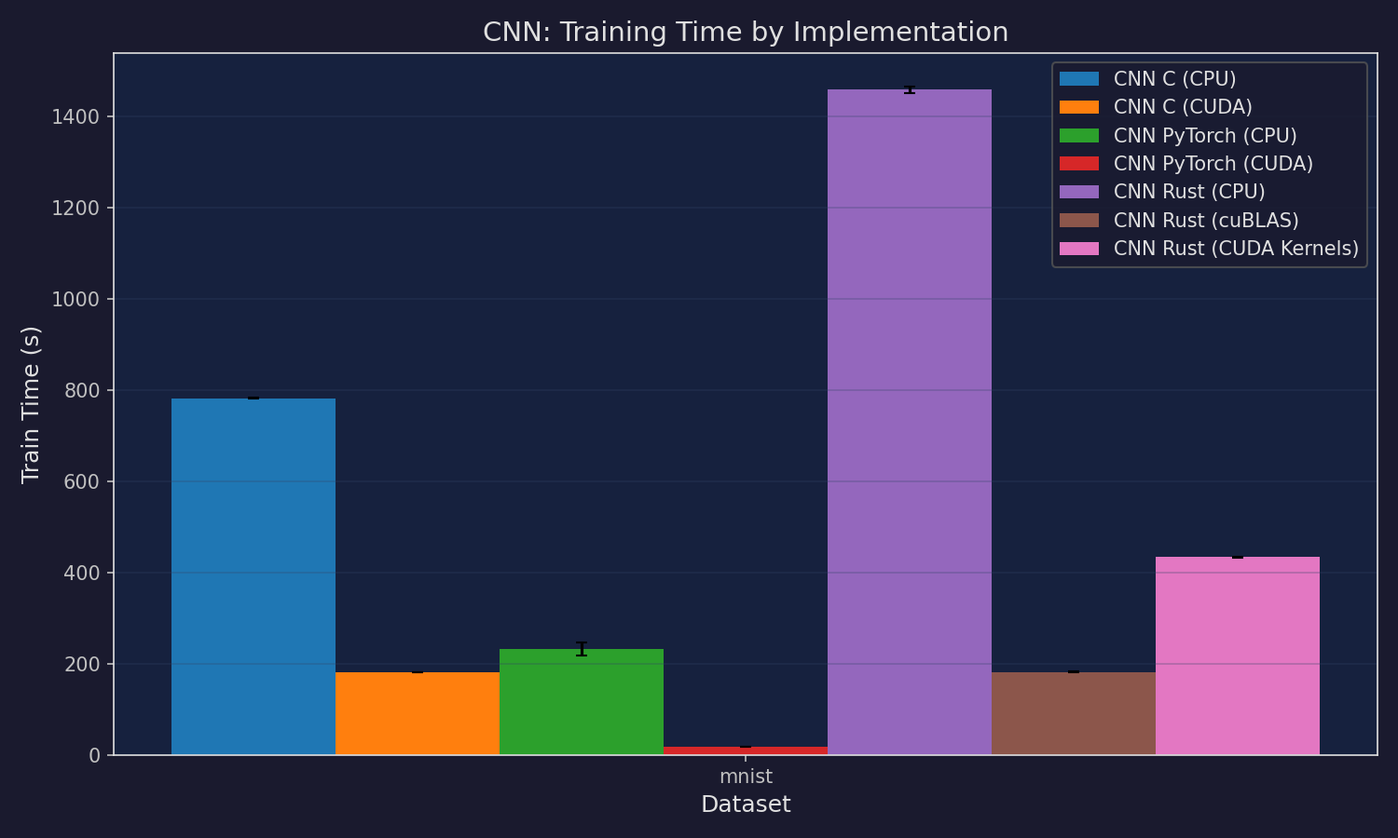
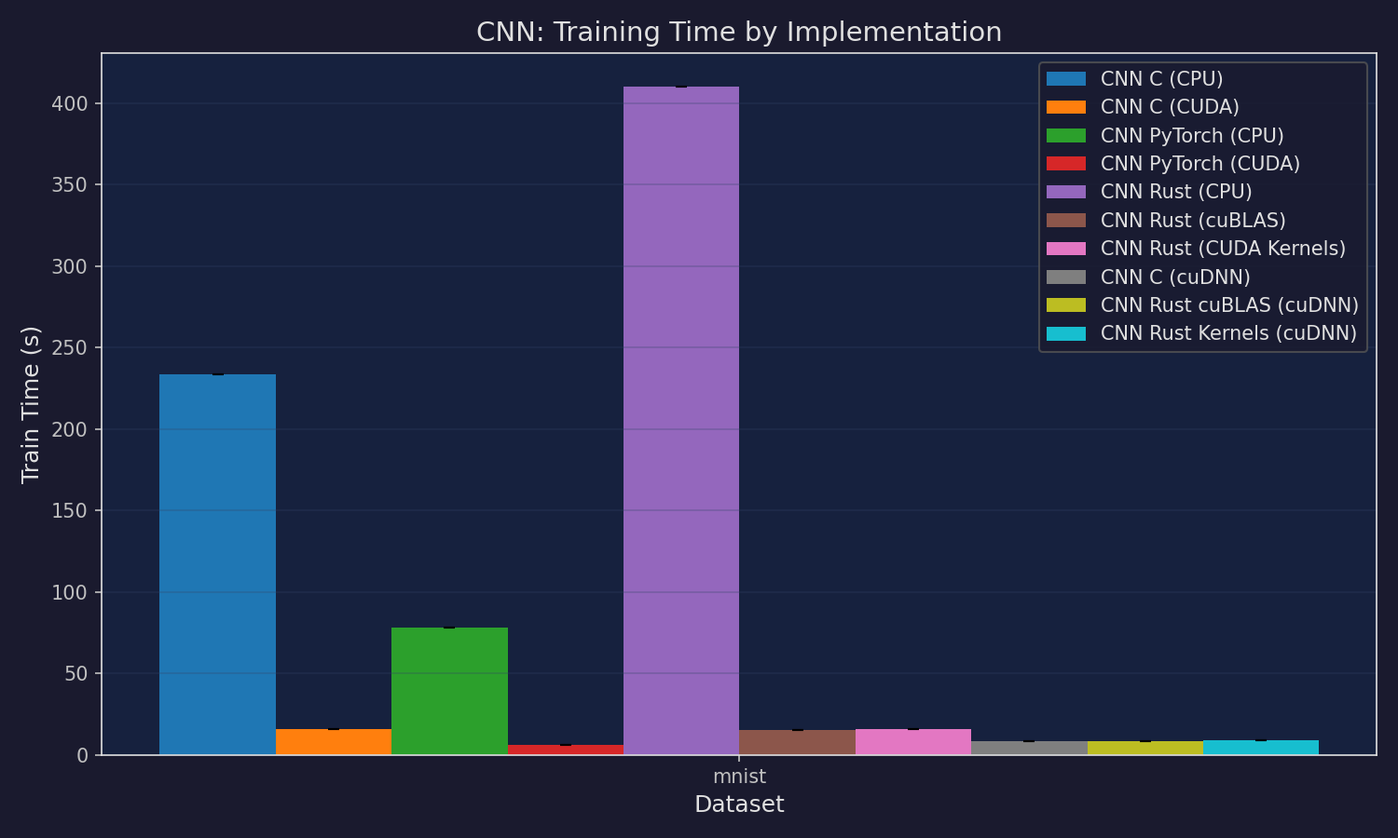
docs: update README and regenerate all plots with depth scaling results
Rewrite README with fresh benchmark numbers, add depth scaling analysis
  section, update peak throughput table, expand MLP overview to 3x2 grid.
  Regenerate all scaling and benchmark plots.

diff --git a/README.md b/README.md
@@ -1,12 +1,12 @@
 # ML Language Playground: Multi-Language Neural Network Benchmark
 
-A multi-language machine learning benchmark comparing neural network implementations across C, Rust, and Python. Two model families --- MLP (8 implementations) and CNN/LeNet-5 (7 implementations) --- span CPU and GPU backends to measure throughput scaling.
+A multi-language machine learning benchmark comparing neural network implementations across C, Rust, and Python. Two model families --- MLP (8 implementations) and CNN/LeNet-5 (10 implementations) --- span CPU and GPU backends to measure throughput scaling.
 
 ## MLP Architecture
 
 | Component | Choice | Rationale |
 |-----------|--------|-----------|
-| Hidden layers | 1 (configurable size, default 64) | Simple enough to implement from scratch, sufficient for tabular data |
+| Hidden layers | 1–5 (configurable depth and width) | `--num-hidden-layers N` controls depth; all hidden layers share `--hidden-size` width |
 | Hidden activation | ReLU | Fast, avoids vanishing gradients |
 | Output activation | Softmax | Produces class probabilities for multi-class classification |
 | Loss | Cross-entropy | Standard for classification; clean gradient with softmax |
@@ -19,10 +19,10 @@ A multi-language machine learning benchmark comparing neural network implementat
 | Implementation | File | Description |
 |---------------|------|-------------|
 | C (CPU) | `src/c/models/mlp/mlp_cpu.c` | Manual backprop in C99 with OpenMP parallelization and cache-tiled GEMM |
-| C (CUDA) | `src/c/models/mlp/mlp.cu` | GPU kernels, one CUDA thread per sample, atomicAdd for gradients |
-| Rust (CPU) | `src/rust/mlp-cpu/src/main.rs` | Rayon threadpool (physical cores) + cache-tiled GEMM (TILE=64) |
-| Rust (cuBLAS) | `src/rust/mlp-cuda-cublas/src/main.rs` | cuBLAS FFI for GEMM + custom CUDA kernels for elementwise ops |
-| Rust (CUDA Kernels) | `src/rust/mlp-cuda-kernels/src/main.rs` | All custom CUDA kernels including shared-memory tiled matmul |
+| C (CUDA) | `src/c/models/mlp/mlp.cu` | GPU kernels with cuBLAS GEMM and custom elementwise CUDA kernels |
+| Rust (CPU) | `src/rust/models/mlp-cpu/src/main.rs` | Rayon threadpool (physical cores) + cache-tiled GEMM (TILE=64) |
+| Rust (cuBLAS) | `src/rust/models/mlp-cuda-cublas/src/main.rs` | cuBLAS FFI for GEMM + custom CUDA kernels for elementwise ops |
+| Rust (CUDA Kernels) | `src/rust/models/mlp-cuda-kernels/src/main.rs` | All custom CUDA kernels including shared-memory tiled matmul |
 | NumPy (CPU) | `src/python/models/mlp/mlp_numpy.py` | Vectorized NumPy, exact replica of C algorithm |
 | PyTorch (CPU) | `src/python/models/mlp/mlp_pytorch.py` | nn.Module with manual Xavier init to match C, CPU backend |
 | PyTorch (CUDA) | `src/python/models/mlp/mlp_pytorch.py` | Same PyTorch model on GPU via `--device cuda` |
@@ -50,9 +50,12 @@ All 8 MLP implementations produce identical standardized output for benchmark pa
 |---------------|------|-------------|
 | C (CPU) | `src/c/models/cnn/cnn_cpu.c` | im2col + OpenMP-parallelized tiled GEMM, shared nn_ops library |
 | C (CUDA) | `src/c/models/cnn/cnn.cu` | GPU im2col + cuBLAS GEMM, custom elementwise CUDA kernels |
-| Rust (CPU) | `src/rust/cnn-cpu/src/main.rs` | im2col + Rayon threadpool with cache-tiled GEMM (TILE=64) |
-| Rust (cuBLAS) | `src/rust/cnn-cuda-cublas/src/main.rs` | cuBLAS GEMM + custom CUDA kernels for conv/pool/activations |
-| Rust (CUDA Kernels) | `src/rust/cnn-cuda-kernels/src/main.rs` | All custom CUDA kernels including shared-memory tiled matmul |
+| C (cuDNN) | `src/c/models/cnn/cnn.cu` | cuDNN convolution backend via `--backend cudnn` |
+| Rust (CPU) | `src/rust/models/cnn-cpu/src/main.rs` | im2col + Rayon threadpool with cache-tiled GEMM (TILE=64) |
+| Rust (cuBLAS) | `src/rust/models/cnn-cuda-cublas/src/main.rs` | cuBLAS GEMM + custom CUDA kernels for conv/pool/activations |
+| Rust (CUDA Kernels) | `src/rust/models/cnn-cuda-kernels/src/main.rs` | All custom CUDA kernels including shared-memory tiled matmul |
+| Rust cuBLAS (cuDNN) | `src/rust/models/cnn-cuda-cublas/src/main.rs` | cuDNN convolution backend via `--backend cudnn` |
+| Rust Kernels (cuDNN) | `src/rust/models/cnn-cuda-kernels/src/main.rs` | cuDNN convolution backend via `--backend cudnn` |
 | PyTorch (CPU) | `src/python/models/cnn/cnn_pytorch.py` | nn.Module with manual Xavier init, CPU backend |
 | PyTorch (CUDA) | `src/python/models/cnn/cnn_pytorch.py` | Same model on GPU via `--device cuda` |
 
@@ -80,9 +83,23 @@ All CNN implementations train on MNIST (60K training / 10K test, 28x28 grayscale
 - **Rust**: Cargo (2021 edition)
 - **Python**: Python 3.8+, NumPy, matplotlib, PyTorch
 
-### Build Everything
+### Full Pipeline (Recommended)
 
-The build script detects available toolchains and builds all possible targets:
+The `run.sh` wrapper handles build, tuning, benchmarking, scaling experiments, and plot generation with log rotation:
+
+```bash
+# Full pipeline for all models
+./run.sh
+
+# Single model only
+./run.sh --model mlp
+./run.sh --model cnn
+
+# Skip tuning (use cached tuned params)
+./run.sh --skip-tune
+```
+
+### Build Everything
 
 ```bash
 ./build.sh
@@ -90,9 +107,7 @@ The build script detects available toolchains and builds all possible targets:
 
 This downloads datasets, installs Python dependencies, and builds all C, Rust, and CUDA targets. Targets whose toolchains are missing are skipped with a warning.
 
-### Unified Pipeline
-
-The pipeline handles build, tuning, benchmarking, and plot generation in one command:
+### Pipeline Phases
 
 ```bash
 # Full pipeline for all models (build -> tune -> benchmark -> plot)
@@ -112,7 +127,7 @@ Tuning uses two-phase successive halving: throughput sweep for batch size, then 
 
 ### Run Individual Implementations
 
-All implementations accept `--batch-size`, `--num-samples`, `--hidden-size`, `--epochs`, `--optimizer sgd|adam`, and `--scheduler none|cosine` flags.
+All implementations accept `--batch-size`, `--num-samples`, `--hidden-size`, `--num-hidden-layers`, `--epochs`, `--optimizer sgd|adam`, and `--scheduler none|cosine` flags.
 
 ```bash
 # C (CPU)
@@ -139,6 +154,9 @@ python3 src/python/models/mlp/mlp_pytorch.py --dataset iris --device cpu
 # PyTorch (CUDA)
 python3 src/python/models/mlp/mlp_pytorch.py --dataset iris --device cuda
 
+# Multi-layer MLP example (3 hidden layers, 256 neurons each)
+./src/rust/target/release/mlp-cpu --dataset generated --num-hidden-layers 3 --hidden-size 256
+
 # --- CNN (LeNet-5 on MNIST) ---
 # C (CPU)
 ./src/c/build_cpu/cnn_main --dataset mnist
@@ -156,7 +174,7 @@ python3 src/python/models/cnn/cnn_pytorch.py --dataset mnist --device cuda
 # MLP: standard mode — accuracy + train time on real datasets
 python3 src/scripts/benchmark.py --mode standard --datasets generated,iris,breast-cancer --runs 3
 
-# MLP: scaling mode — throughput vs dataset size, batch size, and hidden size
+# MLP: scaling mode — throughput vs dataset size, batch size, hidden size, and network depth
 python3 src/scripts/benchmark.py --mode scaling --runs 1
 
 # MLP: budget mode — accumulate benchmark samples with variance-weighted scheduling
@@ -178,71 +196,88 @@ python3 src/scripts/benchmark.py --mode scaling --model cnn --budget 0
 
 ## MLP Scaling Benchmark Analysis
 
-All measurements were collected on an NVIDIA RTX 3070 (46 SMs, 5888 CUDA cores, 8 GB GDDR6) paired with an Intel Core i9-10900F (10 cores, 20 threads, 2.80 GHz). The benchmark sweeps three independent axes --- dataset size, mini-batch size, and hidden-layer width --- while holding the other two fixed. Each configuration trains the full MLP for 200 epochs and reports end-to-end throughput in samples per second.
+All measurements were collected on an NVIDIA RTX 3070 (46 SMs, 5888 CUDA cores, 8 GB GDDR6) paired with an Intel Core i9-10900F (10 cores, 20 threads, 2.80 GHz). The benchmark sweeps four independent axes --- dataset size, mini-batch size, hidden-layer width, and network depth --- while holding the others fixed. Each configuration trains the full MLP for 10 epochs and reports end-to-end throughput in samples per second.
 
 Throughput curves are fitted using Gaussian Process regression in log-log space, with 95% confidence bands derived from the GP posterior. Data points are sampled from continuous log-uniform distributions (not a fixed grid) using a gap-filling strategy that ensures even coverage. Results accumulate across runs via `--budget`, and the variance-weighted scheduler prioritizes under-sampled regions. Run `python3 src/scripts/benchmark.py --mode scaling --budget 60` to extend the dataset, or `--budget 0` to replot from cache.
 
 ### Peak Throughput Summary
 
-| Experiment | C (CUDA) | Rust (cuBLAS) | PyTorch (CUDA) | Rust (Kernels) | C (CPU) | PyTorch (CPU) | NumPy | Rust (CPU) |
+| Experiment | C (CUDA) | Rust (cuBLAS) | Rust (Kernels) | PyTorch (CUDA) | C (CPU) | PyTorch (CPU) | NumPy | Rust (CPU) |
 |---|---|---|---|---|---|---|---|---|
-| Dataset Size | **9.90M** | 9.89M | 6.94M | 5.46M | 1.30M | 1.18M | 749K | 865K |
-| Batch Size | 9.77M | 10.08M | **12.76M** | 6.52M | 1.15M | 1.52M | 1.06M | 762K |
-| Hidden Size | 13.48M | **14.22M** | 6.19M | 10.41M | 3.89M | 3.66M | 4.34M | 3.61M |
+| Dataset Size | **8.92M** | 8.21M | 5.25M | 3.35M | 1.29M | 1.34M | 769K | 852K |
+| Batch Size | 7.21M | **7.21M** | 4.80M | 2.76M | 851K | 883K | 829K | 675K |
+| Hidden Size | **9.70M** | 9.15M | 8.75M | 1.80M | 5.96M | 1.58M | 3.89M | 3.21M |
+| Network Depth | **6.92M** | 6.69M | 5.76M | 1.83M | 2.13M | 1.51M | 1.64M | 1.39M |
 
 ---
 
 ### Dataset Size Scaling (8K -- 4M samples)
 
-Fixed parameters: batch\_size = 4096, hidden\_size = 512, epochs = 200.
+Fixed parameters: batch\_size = 2048, hidden\_size = 256, epochs = 10.
 
 ![Throughput vs Dataset Size](results/plots/mlp/scaling_dataset_size.png)
 
-The dataset-size sweep shows that throughput is largely independent of dataset size for both CPU and GPU implementations. Both tiers maintain roughly constant throughput across two orders of magnitude (8K to 4M samples). The GPU implementations --- C CUDA, Rust cuBLAS, PyTorch CUDA, and Rust CUDA Kernels --- sustain approximately 5--10M samples/s throughout, with C CUDA and Rust cuBLAS at the top (~10M) and PyTorch CUDA consistently lower (~7M), the gap attributable to Python dispatch overhead and autograd bookkeeping. The CPU implementations cluster between 700K and 1.3M samples/s, also largely flat across the sweep.
+The dataset-size sweep shows that GPU throughput rises with dataset size and plateaus once there are enough mini-batches to amortize kernel launch overhead. C CUDA and Rust cuBLAS lead at ~9M samples/s at large dataset sizes, with Rust CUDA Kernels at ~5M and PyTorch CUDA around ~3.3M. The CPU implementations cluster between 700K and 1.3M samples/s, with C (CPU) and PyTorch (CPU) at the top of the CPU tier.
 
-This flat scaling is expected: with a fixed batch size of 4096, each mini-batch GEMM has the same dimensions regardless of how many total samples exist. More data simply means more mini-batches per epoch, and throughput (samples per second) stays constant because the per-batch cost is unchanged.
+This scaling behavior is expected: with a fixed batch size of 2048, each mini-batch GEMM has the same dimensions regardless of total samples. More data simply means more mini-batches per epoch, and throughput (samples per second) stays constant once the GPU pipeline is saturated.
 
 ![GPU Speedup vs Dataset Size](results/plots/mlp/gpu_speedup_dataset_size.png)
 
-The GPU speedup plot shows a roughly constant ratio across dataset sizes --- typically 5--15x depending on the pair --- confirming that the GPU advantage comes from faster per-batch computation, not from better scaling behavior. The confidence bands are wider at the extremes of the range where fewer data points constrain the GP fit. The Rust cuBLAS / C CUDA ratio (orange line) hovers near 1.0x throughout, confirming that the Rust FFI bindings to cuBLAS introduce negligible overhead compared to calling CUDA APIs directly from C.
+The GPU speedup plot shows a roughly constant 5--10x ratio across dataset sizes, confirming that the GPU advantage comes from faster per-batch computation, not from better amortization. The Rust cuBLAS / C CUDA ratio (orange) hovers near 1.0x throughout, confirming zero overhead from Rust's FFI bindings.
 
 ---
 
-### Batch Size Scaling (256 -- 32K)
+### Batch Size Scaling (256 -- 16K)
 
-Fixed parameters: num\_samples = 262,144, hidden\_size = 512, epochs = 200.
+Fixed parameters: num\_samples = 262,144, hidden\_size = 256, epochs = 10.
 
 ![Throughput vs Batch Size](results/plots/mlp/scaling_batch_size.png)
 
-Batch size is the primary lever for GPU utilization because it determines how many threads can execute in parallel during a single GEMM call. The RTX 3070 has 46 streaming multiprocessors, each capable of scheduling up to 2048 threads, for a total of approximately 94K concurrent threads at full occupancy. A batch size of 256 produces GEMM dimensions of (256 x 512) and (512 x 512) --- enough work to partially fill the GPU, but not enough to fully hide memory latency through thread-level parallelism.
+Batch size is the primary lever for GPU utilization because it determines how many threads can execute in parallel during a single GEMM call. The RTX 3070 has 46 streaming multiprocessors, each capable of scheduling up to 2048 threads, for a total of approximately 94K concurrent threads at full occupancy.
 
-The GPU throughput curves rise steeply from batch size 256 through 4096, with each doubling of batch size yielding a near-proportional throughput increase. PyTorch CUDA demonstrates the most dramatic scaling, climbing to 12.8M samples/s at the largest batch sizes --- making it the overall winner for this experiment. PyTorch's batched tensor operations benefit particularly from large batch sizes because the relative cost of its Python-level dispatch and autograd graph construction decreases as more computation is packed into each kernel launch. Rust cuBLAS and C CUDA track each other closely, both reaching approximately 10M samples/s. The custom CUDA kernel implementation (Rust CUDA Kernels) shows steadier growth, reaching 6.5M samples/s --- its shared-memory tiled matmul (TILE\_DIM=16) is less optimized than cuBLAS's auto-tuned kernels but still benefits cleanly from increased parallelism.
+The GPU throughput curves rise steeply from batch size 256 through 16K, with C CUDA and Rust cuBLAS neck-and-neck at ~7.2M samples/s at the largest batch sizes. The custom CUDA kernel implementation (Rust CUDA Kernels) reaches ~4.8M samples/s --- its shared-memory tiled matmul (TILE\_DIM=16) is less optimized than cuBLAS's auto-tuned kernels but still benefits cleanly from increased parallelism. PyTorch CUDA reaches ~2.8M, with its Python dispatch and autograd overhead consuming a larger share at these matrix dimensions.
 
-The CPU implementations exhibit a different pattern. Throughput initially increases with batch size --- larger batches improve data locality in the tiled GEMM, reduce per-batch loop overhead, and allow OpenMP/Rayon thread pools to amortize scheduling costs. However, beyond batch sizes of 1024--2048, CPU throughput peaks and then declines. This is likely caused by increased memory pressure: large batch matrices exceed L3 cache capacity, forcing the tiled GEMM to spill to main memory on every tile access. Rust (CPU) suffers the steepest decline of any CPU implementation at large batch sizes, suggesting the Rust CPU tiling strategy handles large matrices less efficiently than C's OpenMP-parallelized equivalent.
+The CPU implementations show flatter scaling. Beyond batch sizes of 1024--2048, throughput plateaus as the per-batch matrices begin to exceed L3 cache capacity, causing the tiled GEMM to spill to main memory.
 
 ![GPU Speedup vs Batch Size](results/plots/mlp/gpu_speedup_batch_size.png)
 
-The batch-size speedup plot illustrates a textbook GPU scaling curve. At batch size 256, GPU speedup over the corresponding CPU implementation ranges from 5--10x. By the largest batch sizes, the ratios reach 20--35x across most pairs. This monotonic increase demonstrates that GPUs are fundamentally throughput machines: they need large amounts of data-parallel work to justify the fixed costs of kernel launches and memory transfers. The Rust cuBLAS / C CUDA ratio remains flat near 1.0x, once again confirming zero FFI overhead in the hot path.
+The batch-size speedup plot illustrates a textbook GPU scaling curve. At batch size 256, GPU speedup ranges from 2--5x. By the largest batch sizes, the ratios reach 10--15x. This monotonic increase demonstrates that GPUs need large amounts of data-parallel work to justify kernel launch and memory transfer overhead.
 
 ---
 
-### Hidden Size Scaling (64 -- 4096)
+### Hidden Size Scaling (64 -- 8K)
 
-Fixed parameters: num\_samples = 262,144, batch\_size = 4096, epochs = 200.
+Fixed parameters: num\_samples = 262,144, batch\_size = 2048, epochs = 10.
 
 ![Throughput vs Hidden Size](results/plots/mlp/scaling_hidden_size.png)
 
 The hidden-size sweep is the most revealing experiment because it directly controls the arithmetic intensity of the workload. The dominant GEMM operations have dimensions (batch x hidden) and (hidden x hidden), so FLOPs per sample scale as O(hidden^2). This makes hidden-size scaling the clearest test of compute-bound versus memory-bound behavior.
 
-At small hidden sizes (~64), the computation per sample is trivial --- a (4096 x 64) matrix multiply requires only 0.5M FLOPs. All implementations cluster between 3M and 15M samples/s, and the CPU implementations are competitive because the tiny weight matrices fit entirely in L1 cache. This is the memory-bound regime: the GPU's massive compute throughput goes largely unused because the matrices are too small to saturate the arithmetic pipelines.
+At small hidden sizes (~64), all implementations cluster between 1M and 10M samples/s. The CPU implementations are competitive because the tiny weight matrices fit entirely in L1/L2 cache --- this is the memory-bound regime where the GPU's massive compute throughput goes largely unused.
 
-As hidden size increases to 256 and beyond, the GPU implementations pull away dramatically. Rust cuBLAS and C CUDA maintain remarkably high throughput, with Rust cuBLAS peaking at 14.2M samples/s and C CUDA at 13.5M samples/s. The custom Rust CUDA kernels achieve 10.4M samples/s --- impressive for hand-written shared-memory kernels, but roughly 27% below cuBLAS, reflecting the gap between a 16x16 fixed tile size and cuBLAS's auto-tuned tile dimensions that adapt to the matrix shape.
-
-The CPU implementations suffer severely at large hidden sizes. Large weight matrices far exceed CPU cache capacity, and the O(hidden^2) compute ensures that even OpenMP parallelism cannot compensate. All four CPU implementations converge toward similar throughput at the largest hidden sizes, with Rust (CPU) consistently the slowest --- the same GEMM efficiency gap observed in the batch-size experiment.
+As hidden size increases to 256 and beyond, the GPU implementations pull away. C CUDA peaks at 9.7M samples/s and Rust cuBLAS at 9.2M, while the custom Rust CUDA kernels reach 8.75M --- impressive for hand-written shared-memory kernels. The CPU implementations suffer severely at large hidden sizes: large weight matrices exceed cache capacity, and the O(hidden^2) compute ensures that even OpenMP parallelism cannot compensate. All CPU implementations converge to similar low throughput at the largest hidden sizes.
 
 ![GPU Speedup vs Hidden Size](results/plots/mlp/gpu_speedup_hidden_size.png)
 
-The hidden-size speedup plot shows the most dramatic GPU advantage of any experiment. At small hidden sizes, speedups are modest (2--4x), reflecting the kernel launch overhead on small matrices. As hidden size grows, the speedup curves rise super-linearly because the GPU's throughput degrades more slowly than the CPU's --- the GPU has enough on-chip SRAM (shared memory plus register file) to tile large matrix multiplies efficiently, while the CPU's cache hierarchy is overwhelmed. The Rust Kernels / Rust CPU curve demonstrates that the GPU advantage is architecture-dependent, not language-dependent: the same Rust codebase shows an order-of-magnitude speedup simply by switching the GEMM backend from CPU tiling to GPU execution.
+The hidden-size speedup plot shows the most dramatic GPU advantage of any experiment. At small hidden sizes, speedups are modest (1--2x). As hidden size grows, the speedup curves rise because the GPU's throughput degrades more slowly than the CPU's --- the GPU has enough on-chip SRAM (shared memory plus register file) to tile large matrix multiplies efficiently, while the CPU's cache hierarchy is overwhelmed.
+
+---
+
+### Network Depth Scaling (1 -- 5 hidden layers)
+
+Fixed parameters: num\_samples = 262,144, batch\_size = 2048, hidden\_size = 256, epochs = 10.
+
+![Throughput vs Network Depth](results/plots/mlp/scaling_num_hidden_layers.png)
+
+The depth sweep is a new scaling axis that tests how implementations handle the sequential overhead of deeper networks. Adding hidden layers increases the total compute linearly (each layer adds a (batch x hidden) x (hidden x hidden) GEMM in forward and two GEMMs in backward), but also adds sequential dependencies: layer N's activations depend on layer N-1, preventing pipelining across layers.
+
+The GPU implementations degrade gracefully with depth. C CUDA drops from ~7M samples/s at 1 layer to ~2.5M at 5 layers, and Rust cuBLAS tracks it closely. This roughly 3x degradation across 5x more layers reflects the inherent parallelism within each GEMM: even though layers are sequential, each individual matrix multiply fully saturates the GPU's SMs. Rust CUDA Kernels shows the same graceful degradation, landing at ~1.5M at 5 layers.
+
+The CPU implementations show steeper degradation. C (CPU) drops from ~2M to ~200K, and Rust (CPU) from ~1.4M to ~100K at 5 layers. The deeper network's working set (5 layers x 256x256 weights + activations) far exceeds L3 cache, so each layer's GEMM pays full main-memory latency. NumPy (using OpenBLAS) holds up better than the hand-tuned CPU implementations at depth --- its optimized BLAS kernels handle the increased memory pressure more efficiently.
+
+The depth experiment reveals a key architectural insight: GPU advantage grows with network depth because each additional layer adds fixed overhead on the CPU (cache thrashing, thread scheduling) while the GPU absorbs it with minimal penalty (kernel launches are ~5us each, negligible compared to the GEMM compute time).
+
+![GPU Speedup vs Network Depth](results/plots/mlp/gpu_speedup_num_hidden_layers.png)
 
 ---
 
@@ -254,35 +289,40 @@ The hidden-size speedup plot shows the most dramatic GPU advantage of any experi
 
 ## CNN Scaling Benchmark Analysis
 
-The CNN benchmark uses the same GP regression methodology as MLP, sweeping batch size from 16 to 1024 on the MNIST dataset (60,000 training images, fixed architecture). Because MNIST is a fixed-size dataset and the LeNet-5 architecture has no configurable hidden size, batch size is the only meaningful scaling axis.
+The CNN benchmark uses the same GP regression methodology as MLP, sweeping batch size from 16 to 1024 on the MNIST dataset (60,000 training images, fixed LeNet-5 architecture). Because MNIST is a fixed-size dataset and LeNet-5 has no configurable hidden size or depth, batch size is the only meaningful scaling axis. The CNN benchmarks include cuDNN backend variants (via `--backend cudnn`) alongside the hand-written im2col implementations.
 
 ### CNN Peak Throughput
 
 | Implementation | Peak Throughput | Notes |
 |---|---|---|
-| PyTorch (CUDA) | **291K/s** | cuDNN fused convolution kernels |
-| PyTorch (CPU) | 36K/s | cuDNN CPU path + autograd |
-| C (CUDA) | 16K/s | im2col + cuBLAS GEMM |
-| Rust (cuBLAS) | 16K/s | im2col + cuBLAS via FFI |
-| C (CPU) | 13K/s | im2col + OpenMP tiled GEMM |
-| Rust (CUDA Kernels) | 13K/s | im2col + shared-memory tiled matmul |
-| Rust (CPU) | 5K/s | im2col + Rayon tiled GEMM |
+| Rust cuBLAS (cuDNN) | **262K/s** | cuDNN fused convolution kernels via Rust FFI |
+| C (cuDNN) | 260K/s | cuDNN convolution backend |
+| Rust Kernels (cuDNN) | 249K/s | cuDNN convolution + custom CUDA FC layers |
+| PyTorch (CUDA) | 187K/s | Built-in cuDNN via autograd |
+| Rust (cuBLAS) | 152K/s | im2col + cuBLAS GEMM |
+| Rust (CUDA Kernels) | 150K/s | im2col + shared-memory tiled matmul |
+| C (CUDA) | 150K/s | im2col + cuBLAS GEMM |
+| PyTorch (CPU) | 31K/s | CPU convolution via autograd |
+| C (CPU) | 15K/s | im2col + OpenMP tiled GEMM |
+| Rust (CPU) | 6K/s | im2col + Rayon tiled GEMM |
 
 ### Batch Size Scaling (16 -- 1024)
 
-Fixed parameters: MNIST (60K samples), LeNet-5 architecture, epochs = 20.
+Fixed parameters: MNIST (60K samples), LeNet-5 architecture, epochs = 5.
 
 ![CNN Throughput vs Batch Size](results/plots/cnn/scaling_batch_size.png)
 
-The CNN batch-size sweep tells a different story than MLP because the computational profile is fundamentally different. Where MLP throughput is dominated by large GEMM operations on the fully connected layers, CNN throughput is bottlenecked by the im2col transform and the relatively small GEMMs it produces. Conv1 produces a (6×25) × (25×576) multiply and Conv2 a (16×150) × (150×64) multiply --- both far smaller than the MLP's (batch×hidden) × (hidden×hidden) GEMMs. This means the CNN is more sensitive to per-sample overhead (im2col is per-sample) and less able to saturate GPU compute at any batch size.
+The CNN batch-size sweep tells a different story than MLP because the computational profile is fundamentally different. Where MLP throughput is dominated by large GEMM operations on the fully connected layers, CNN throughput is bottlenecked by the im2col transform and the relatively small GEMMs it produces. Conv1 produces a (6x25) x (25x576) multiply and Conv2 a (16x150) x (150x64) multiply --- both far smaller than the MLP's (batch x hidden) x (hidden x hidden) GEMMs.
 
-PyTorch CUDA dominates the CNN benchmark because PyTorch's cuDNN backend uses specialized convolution algorithms (Winograd, FFT-based) that bypass im2col entirely for common kernel sizes. The hand-written im2col implementations (C, Rust) convert convolution into GEMM but cannot match cuDNN's fused kernels that avoid the memory traffic of materializing the column matrix. This architectural advantage is most visible in CNNs where convolution dominates the runtime.
+The cuDNN implementations dominate the CNN benchmark at ~250--260K samples/s, with the hand-written Rust FFI bindings to cuDNN matching C's cuDNN performance exactly. cuDNN uses specialized convolution algorithms (Winograd, FFT-based) that bypass im2col entirely for common kernel sizes. The custom im2col implementations (C CUDA, Rust cuBLAS, Rust Kernels) cluster at ~150K/s --- competitive but roughly 40% below cuDNN, reflecting the memory traffic cost of materializing the column matrix.
 
-The CPU implementations show a tighter spread than in MLP benchmarks. The im2col workspace (29K floats ≈ 116 KB per sample) fits comfortably in L2 cache for small batches, so the CPU implementations avoid the cache-thrashing that plagues large-batch MLP. C (CPU) benefits from OpenMP parallelism across the per-sample convolution loop and achieves higher throughput than Rust (CPU), whose Rayon threadpool incurs more scheduling overhead on the fine-grained per-sample work.
+PyTorch CUDA reaches ~187K/s, benefiting from its built-in cuDNN integration but paying Python dispatch and autograd overhead that places it between the cuDNN and custom im2col tiers.
+
+The CPU implementations show wide spread. PyTorch CPU (31K/s) benefits from its optimized CPU convolution path. C (CPU) at 15K/s uses OpenMP parallelism across the per-sample im2col + GEMM loop. Rust (CPU) at 6K/s is the slowest, with Rayon's threadpool incurring more scheduling overhead on the fine-grained per-sample work.
 
 ![CNN GPU Speedup vs Batch Size](results/plots/cnn/gpu_speedup_batch_size.png)
 
-The GPU speedup plot reveals that cuDNN's advantage over im2col is architectural, not just a constant factor. PyTorch CUDA / CPU speedup grows with batch size (reaching ~8x at large batches), while C CUDA / C CPU stays nearly flat around 1.5x. The im2col implementations move the same amount of memory regardless of backend --- the GPU gains little because the bottleneck is the column matrix materialization, not the GEMM itself. Meanwhile, Rust cuBLAS / C CUDA hovers at 1.0x, confirming that Rust's FFI bindings add zero overhead to the hot path.
+The GPU speedup plot shows Rust cuBLAS / Rust CPU and Rust Kernels / Rust CPU achieving 20--30x speedups at larger batch sizes. C CUDA / C CPU reaches ~10x. The speedup grows with batch size as the GPU SMs are more fully utilized with larger batch GEMMs.
 
 ![CNN Scaling Overview](results/plots/cnn/scaling_overview.png)
 
@@ -311,21 +351,20 @@ ML-in-C/
 │   │   └── models/cnn/            # CNN model (cnn.h, cnn_cpu.c, cnn.cu)
 │   ├── rust/
 │   │   ├── Cargo.toml             # Workspace root
-│   │   ├── nn-common/             # Shared data loading, CLI, normalization
-│   │   ├── mlp-cpu/               # MLP CPU: Rayon + tiled GEMM
-│   │   ├── mlp-cuda-cublas/       # MLP GPU: cuBLAS FFI + custom CUDA kernels
-│   │   ├── mlp-cuda-kernels/      # MLP GPU: all custom CUDA kernels
-│   │   ├── cnn-cpu/               # CNN CPU: im2col + Rayon tiled GEMM
-│   │   ├── cnn-cuda-cublas/       # CNN GPU: cuBLAS GEMM + CUDA kernels
-│   │   └── cnn-cuda-kernels/      # CNN GPU: all custom CUDA kernels
+│   │   ├── utils/nn-common/       # Shared data loading, CLI, normalization
+│   │   ├── models/mlp-cpu/        # MLP CPU: Rayon + tiled GEMM
+│   │   ├── models/mlp-cuda-cublas/  # MLP GPU: cuBLAS FFI + custom CUDA kernels
+│   │   ├── models/mlp-cuda-kernels/ # MLP GPU: all custom CUDA kernels
+│   │   ├── models/cnn-cpu/        # CNN CPU: im2col + Rayon tiled GEMM
+│   │   ├── models/cnn-cuda-cublas/  # CNN GPU: cuBLAS GEMM + CUDA kernels
+│   │   └── models/cnn-cuda-kernels/ # CNN GPU: all custom CUDA kernels
 │   ├── python/
 │   │   ├── models/mlp/
-│   │   │   ├── data_utils.py      # Shared data loading (mirrors C data_loader)
 │   │   │   ├── mlp_numpy.py       # NumPy MLP implementation
 │   │   │   └── mlp_pytorch.py     # PyTorch MLP (CPU + CUDA)
 │   │   ├── models/cnn/
 │   │   │   └── cnn_pytorch.py     # PyTorch CNN (CPU + CUDA)
-│   │   └── setup.py
+│   │   └── utils/data_utils.py    # Shared data loading (mirrors C data_loader)
 │   └── scripts/
 │       ├── pipeline.py            # Unified pipeline: build -> tune -> benchmark -> plot
 │       ├── config.py              # Layered YAML config loader (base + model overrides)
@@ -334,6 +373,7 @@ ML-in-C/
 │       ├── plotting.py            # Plot generation from cached benchmark data
 │       ├── download_datasets.sh   # Download UCI + MNIST datasets
 │       └── preprocess_iris.py     # Preprocess Iris data
+├── run.sh                         # One-command pipeline with log rotation
 ├── build.sh                       # One-command build (detects toolchains)
 ├── mathematical_foundations.md    # Math derivations for MLP and CNN algorithms
 ├── requirements.txt               # Python dependencies
